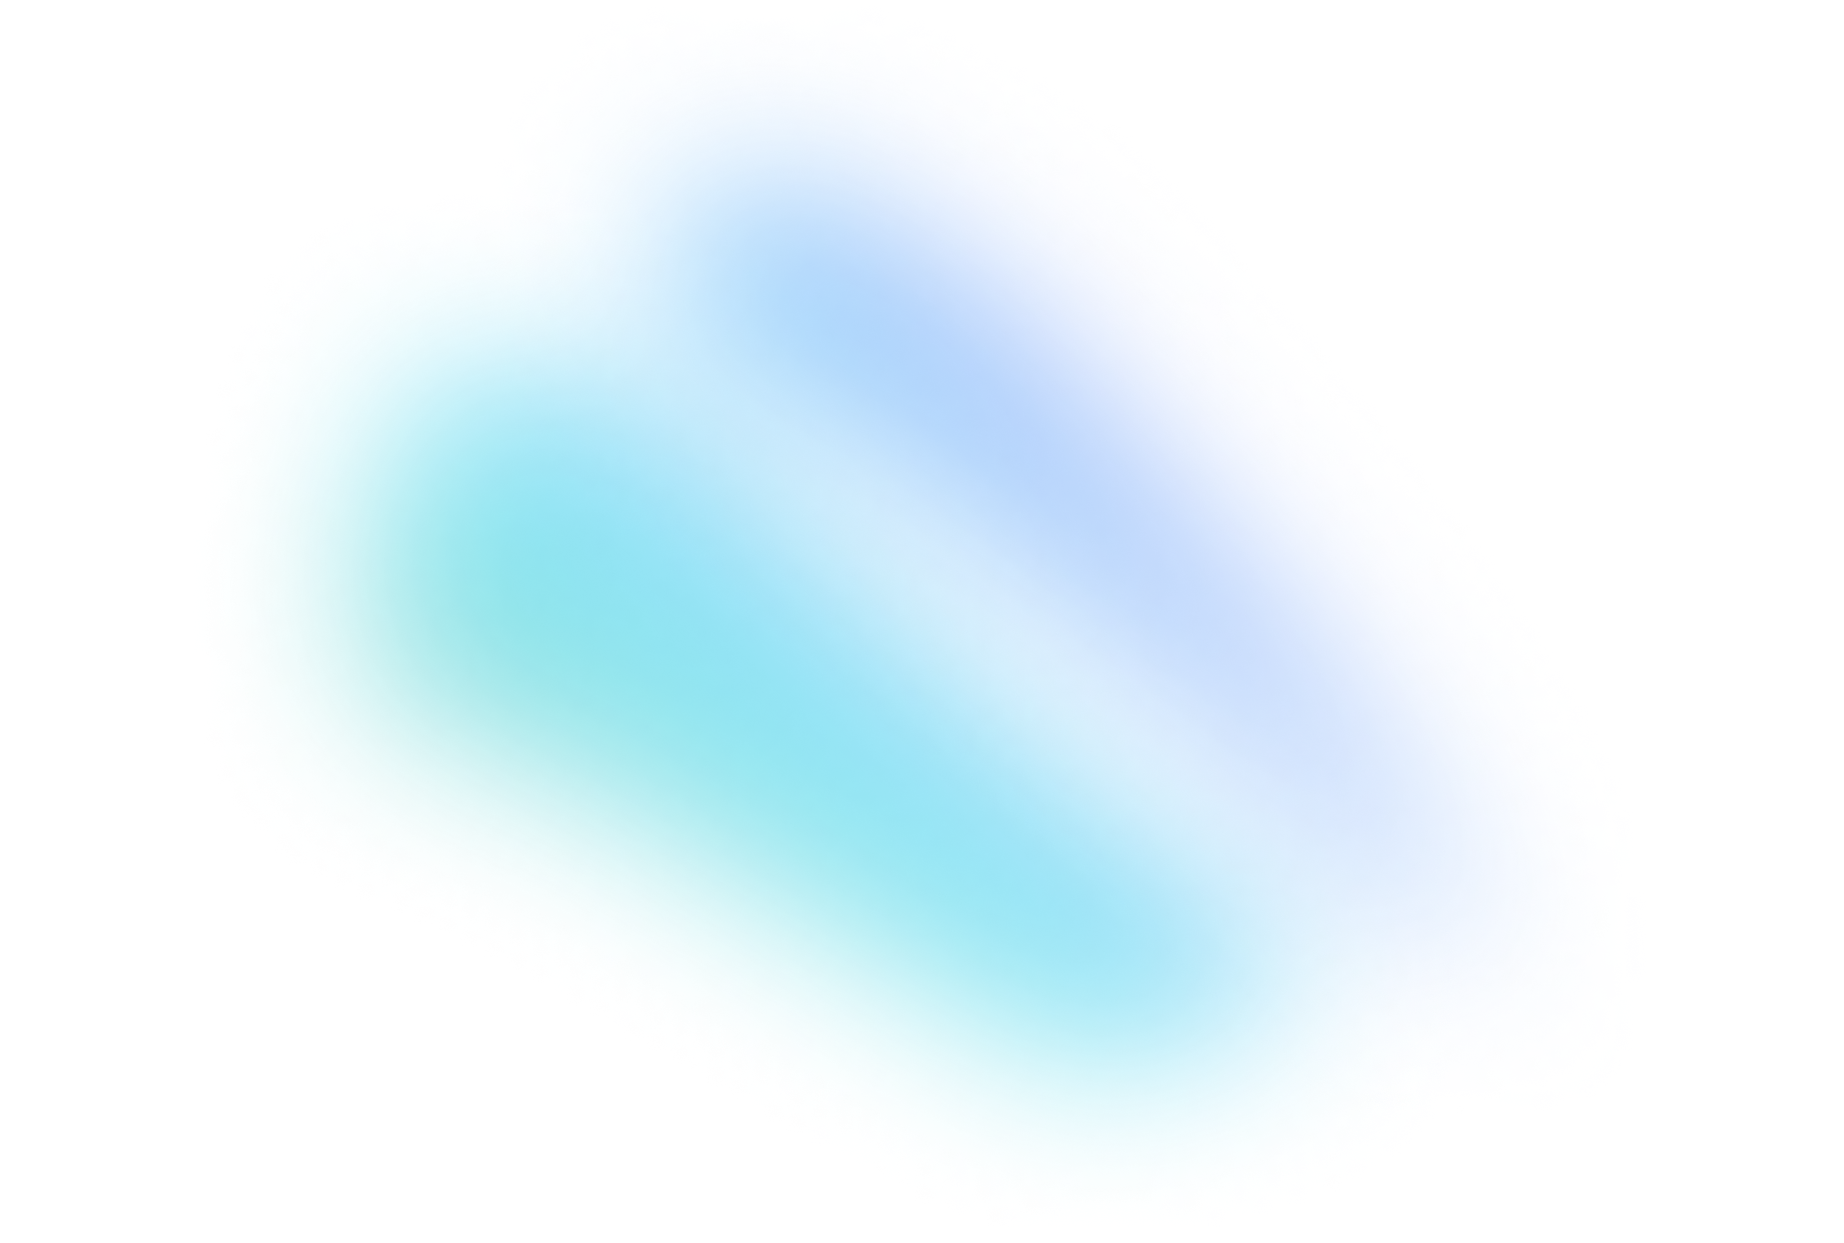
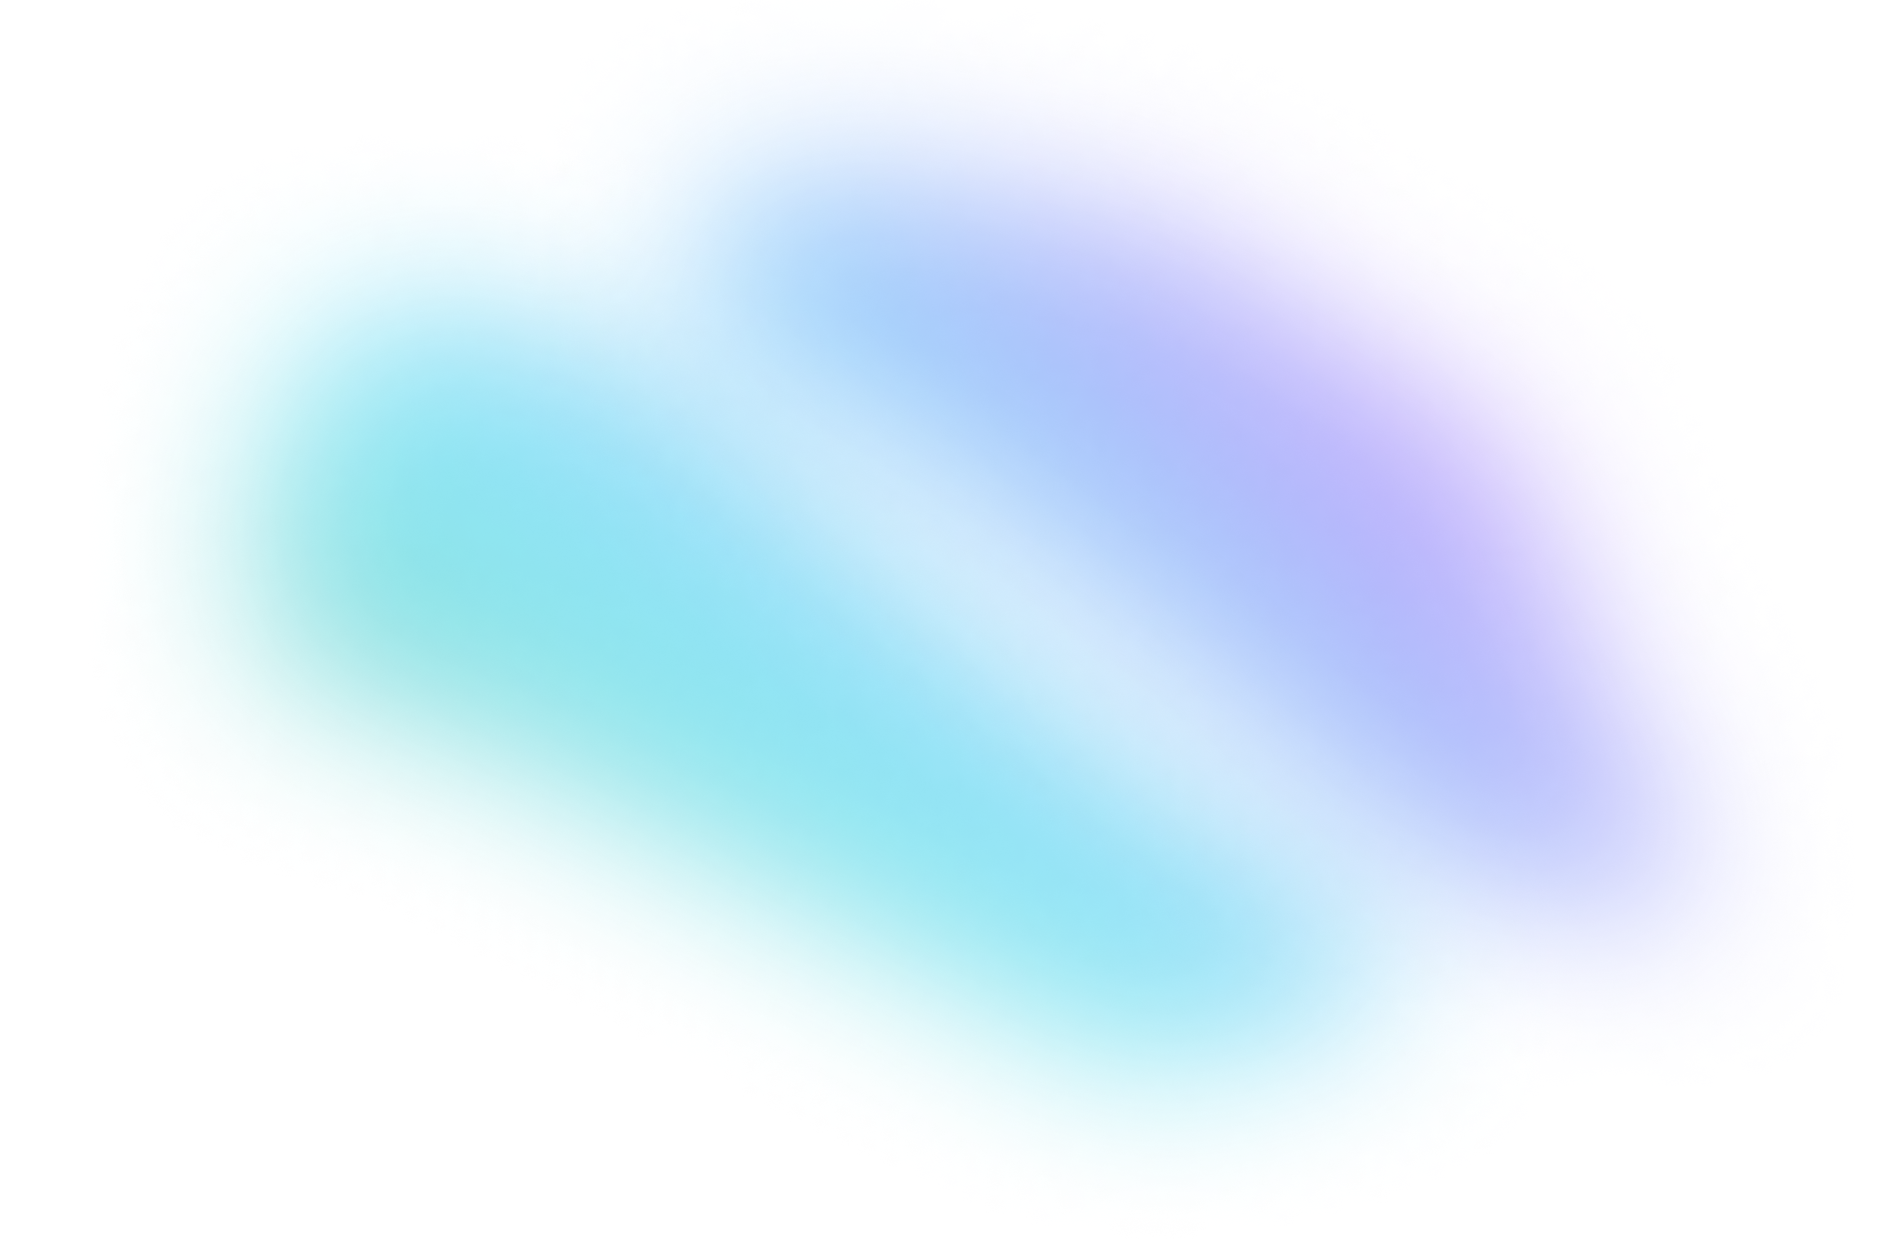
enlarge desktop bg image

Changed region(s): [[0.4946, 0.1223, 0.8964, 0.7337], [0.0927, 0.214, 0.3091, 0.5809]]

diff --git a/app.vue b/app.vue
@@ -24,7 +24,7 @@ function attemptJoinWaitlist() {
     </div>
 
     <div
-      class="absolute inset-y-0 hidden w-full min-w-[1360px] bg-[url('/beams.png')] bg-[length:1200px_700px] bg-[position:calc(50%_+_230px)_-50px] bg-no-repeat lg:block pointer-events-none"
+      class="absolute inset-y-0 hidden w-full min-w-[1360px] bg-[url('/beams.png')] bg-[length:1200px_700px] bg-[position:calc(50%_+_350px)_-50px] bg-no-repeat lg:block pointer-events-none"
     ></div>
     <div class="max-w-[1350px] mx-auto px-8 pb-24 pt-[120px]">
       <div class="flex w-full items-center">
